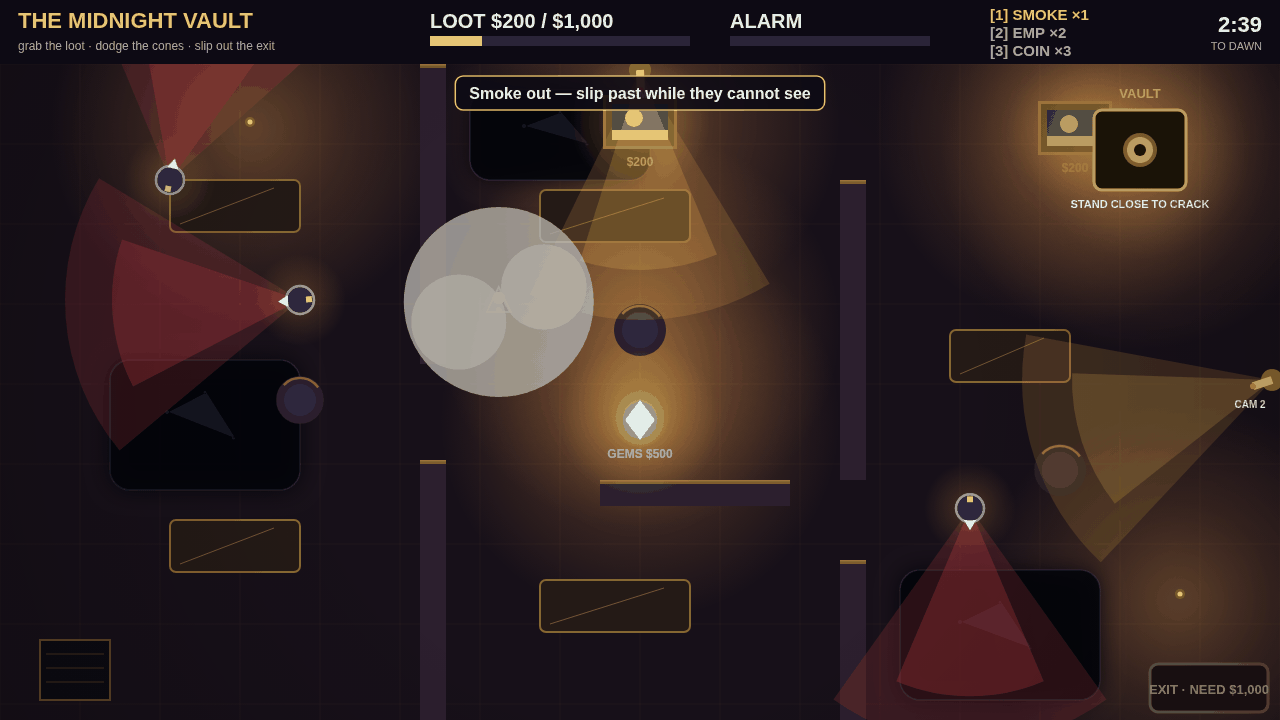
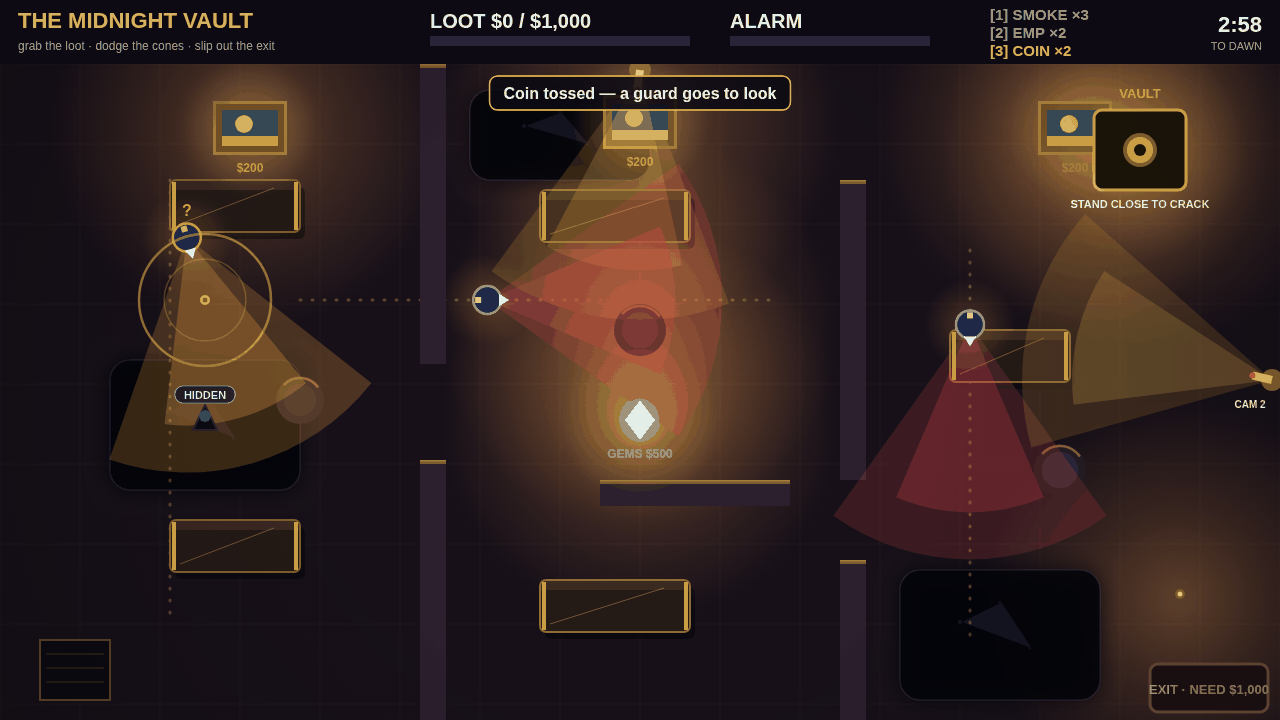
v3: show the coin toss working + deepen room readability
- tools shot is now the coin toss mid-action: gold noise rings at the
  landing spot, nearest guard walking over with '?' and an amber cone,
  thief crouched in the west shadow pool, toast + COIN x2 in the HUD
- dotted patrol routes on the floor; tall display cases get a raised lid,
  brass corner posts and plinth shadow, distinct from flat shadow pools
- small HIDDEN / IN LIGHT visibility badge rides above the thief
- 02-tools.png re-shot as a real render (1280x720, 185,504 B, palette PNG)

diff --git a/game/src/render.js b/game/src/render.js
@@ -4,7 +4,7 @@
 // in the light. No labels say "hidden" — the light itself says it.
 import { VIEW, HUD_H, COLORS, ALARM, LOOT_TARGET, TOOLS } from './config.js';
 import {
-  WALLS, COVER, PILLARS, SHADOWS, CAMERAS, EXIT, ENTRANCE, inShadow,
+  WALLS, COVER, PILLARS, SHADOWS, CAMERAS, EXIT, ENTRANCE, PATROLS, inShadow,
 } from './levels.js';
 import { GUARD, CAMERA } from './config.js';
 import { SCREEN_TITLE, SCREEN_WIN, SCREEN_LOSE, exitOpen } from './state.js';
@@ -66,6 +66,26 @@ function drawFloor(ctx) {
     ctx.lineTo(VIEW.width, y);
   }
   ctx.stroke();
+}
+
+// Dotted patrol routes on the floor: each guard's beat, drawn so the player
+// reads where the cones will sweep before they arrive. Dots, not a solid
+// line — the floor stays floor, the beat stays a hint.
+function drawPatrols(ctx) {
+  ctx.save();
+  ctx.setLineDash([1, 11]);
+  ctx.lineCap = 'round';
+  ctx.strokeStyle = 'rgba(216,180,112,0.34)';
+  ctx.lineWidth = 3;
+  for (const p of PATROLS) {
+    ctx.beginPath();
+    p.waypoints.forEach(([x, y], i) => {
+      if (i === 0) ctx.moveTo(x, y);
+      else ctx.lineTo(x, y);
+    });
+    ctx.stroke();
+  }
+  ctx.restore();
 }
 
 // Warm pools of lamplight, laid over the floor before anything else.
@@ -132,13 +152,27 @@ function drawWallsAndCover(ctx) {
     ctx.fillRect(w.x, w.y, w.w, 1.5);
   }
   for (const c of COVER) {
-    // Dark walnut case, brass edge, warm glass glint — furniture, no label.
+    // Tall display case, a second cover layer distinct from the flat shadow
+    // pools: a plinth shadow on the floor, a raised lid catching the light,
+    // brass corner posts, and a warm glass glint — furniture you hide behind.
+    ctx.fillStyle = 'rgba(0,0,0,0.38)';
+    roundRect(ctx, c.x + 5, c.y + 7, c.w, c.h, 6);
+    ctx.fill();
+    // Raised lid: a lighter top band, as if the case stands taller than the floor.
+    ctx.fillStyle = '#3a2b22';
+    roundRect(ctx, c.x, c.y, c.w, 14, 6);
+    ctx.fill();
     ctx.fillStyle = '#241a16';
-    roundRect(ctx, c.x, c.y, c.w, c.h, 6);
+    roundRect(ctx, c.x, c.y + 10, c.w, c.h - 10, 6);
     ctx.fill();
     ctx.strokeStyle = '#8a6a2a';
     ctx.lineWidth = 2;
+    roundRect(ctx, c.x, c.y, c.w, c.h, 6);
     ctx.stroke();
+    // Brass corner posts at the front edge.
+    ctx.fillStyle = '#c9a24a';
+    ctx.fillRect(c.x + 2, c.y + 2, 4, c.h - 4);
+    ctx.fillRect(c.x + c.w - 6, c.y + 2, 4, c.h - 4);
     ctx.strokeStyle = 'rgba(255,205,120,0.35)';
     ctx.lineWidth = 1;
     ctx.beginPath();
@@ -420,6 +454,25 @@ function drawThief(ctx, state) {
     ctx.fill();
   }
   ctx.restore();
+  // Visibility badge over the thief: what the light says about him right
+  // now — HIDDEN in the cool dark, IN LIGHT where the lamps can see him.
+  // Small, and it rides with the thief, so the concealment reads in any frame.
+  const label = hidden ? 'HIDDEN' : 'IN LIGHT';
+  ctx.save();
+  ctx.font = 'bold 11px sans-serif';
+  const w = ctx.measureText(label).width + 18;
+  const bx = t.x - w / 2;
+  const by = t.y - 34;
+  ctx.fillStyle = hidden ? 'rgba(16,24,54,0.88)' : 'rgba(54,38,12,0.88)';
+  roundRect(ctx, bx, by, w, 17, 8);
+  ctx.fill();
+  ctx.strokeStyle = hidden ? '#7fa0e0' : '#f2a33c';
+  ctx.lineWidth = 1.2;
+  ctx.stroke();
+  ctx.fillStyle = hidden ? '#a9c2ff' : '#f2c14e';
+  ctx.textAlign = 'center';
+  ctx.fillText(label, t.x, by + 12.5);
+  ctx.restore();
 }
 
 // The tossed coin: a gold disc and the noise rings that pulled a guard over.
@@ -572,6 +625,7 @@ export function render(ctx, state) {
   drawFloor(ctx);
   drawLampPools(ctx);
   drawShadows(ctx);
+  drawPatrols(ctx);
   drawWallsAndCover(ctx);
   drawExit(ctx, state);
   drawLoot(ctx, state);

diff --git a/game/src/shots.js b/game/src/shots.js
@@ -55,6 +55,7 @@ function autopilot(state, waypoints, seconds, useSmokeAt = -1) {
 
 // Routes avoid the patrol lines: the west wing is crossed low, the centre
 // below the gallery guard's beat, the vault chamber through the low gap.
+// The tools scene is staged, not routed: see shotTools.
 const TO_PAINTING_A = [[320, 640], [320, 420], [300, 200], [250, 128]];
 const TO_GEMS = [[320, 420], [433, 412], [560, 420], [640, 420]];
 const TO_PAINTING_C = [[780, 520], [853, 520], [1000, 300], [1075, 128]];
@@ -68,12 +69,32 @@ function shotCover(state) {
   state.alarm = Math.max(state.alarm, 42); // the night is already tense
 }
 
-/** Tools: a smoke pellet blooms as the thief crosses a guard's cone. */
+/** Tools: the coin toss mid-action — gold rings bloom at the landing spot, the
+ *  nearest guard walks over to look ("?", amber cone), the thief crouched in
+ *  the shadow pool nearby. Staged like `caught`: positions are set, then the
+ *  real useTool + stepGame play the toss and the divert forward. */
 function shotTools(state) {
-  autopilot(state, TO_PAINTING_A, 12);
-  autopilot(state, [[320, 420], [500, 300]], 8, 6);
-  state.tools.selected = 'smoke';
-  if (!state.smoke && state.tools.smoke > 0) useTool(state);
+  // Thief crouched in the west shadow pool (110,360,190,130), facing north
+  // up the gallery toward guard 0's beat, so the coin lands in the lamplight.
+  state.thief.x = 205;
+  state.thief.y = 420;
+  state.thief.facing = -Math.PI / 2;
+  // Guard 0 mid-beat on the centre line, facing east along it.
+  const g0 = state.guards[0];
+  g0.x = 420;
+  g0.y = 300;
+  g0.target = 1;
+  g0.pause = 0;
+  g0.facing = 0;
+  g0.baseFacing = 0;
+  // The real toss: the coin flies 120 px ahead and clinks down at (205, 300);
+  // guard 0 is the nearest in earshot and walks over to look at it.
+  state.tools.selected = 'coin';
+  useTool(state);
+  // Step 1.2 s: the rings are at full spread, the guard is well on his way
+  // with "?" up and an amber cone on the coin, the toast is still up, and
+  // the thief is still unseen in the dark.
+  for (let i = 0; i < 72; i += 1) stepGame(state, SAMPLE);
 }
 
 /** The getaway: vault cracked, haul over target, thief racing for the exit. */
